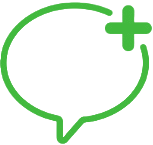
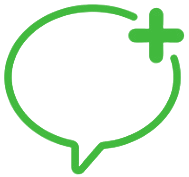
fixed feedback button ui

diff --git a/video_app/templates/video_app/session_detail.html b/video_app/templates/video_app/session_detail.html
@@ -155,6 +155,36 @@
             white-space: nowrap;
             z-index: 1;
         }
+
+        .feedback-button {
+            width: 38px;
+            height: 38px;
+            padding: 0;
+            overflow: hidden;
+            background-color: transparent;
+        }
+
+        .feedback-button img {
+            width: 100%;
+            height: 100%;
+            object-fit: cover;
+        }
+
+        .feedback-button .feedback-icon-filled {
+            display: none;
+        }
+
+        .feedback-button:hover .feedback-icon {
+            display: none;
+        }
+
+        .feedback-button:hover .feedback-icon-filled {
+            display: block;
+        }
+
+        .feedback-button:hover {
+            background-color: transparent !important;
+        }
     </style>
     <div class="mx-auto row" style="width: 75%;">
         <div class="session-header col">
@@ -214,8 +244,9 @@
                             <div class="card-body">
                                 <div class="row">
                                     <div class="like-section col">
-                                        <a href="{% url 'post_detail' media.id %}" class="btn btn-light p-0" style="width: 38px; height: 38px; overflow: hidden; background-color: transparent;">
-                                            <img src="{% static 'video_app/images/feedback-icon.png' %}" alt="Feedback" style="width: 100%; height: 100%; object-fit: cover;">
+                                        <a href="{% url 'post_detail' media.id %}" class="btn btn-light feedback-button">
+                                            <img src="{% static 'video_app/images/feedback-icon.png' %}" alt="Feedback" class="feedback-icon">
+                                            <img src="{% static 'video_app/images/feedback-icon-filled.png' %}" alt="Feedback" class="feedback-icon-filled">
                                         </a>
                                         <button class="like-button" data-media-id="{{ media.id }}" data-like-type="graph">
                                             <img src="{% static 'video_app/images/graph-icon.png' %}" alt="Graph" width="20" height="20">
